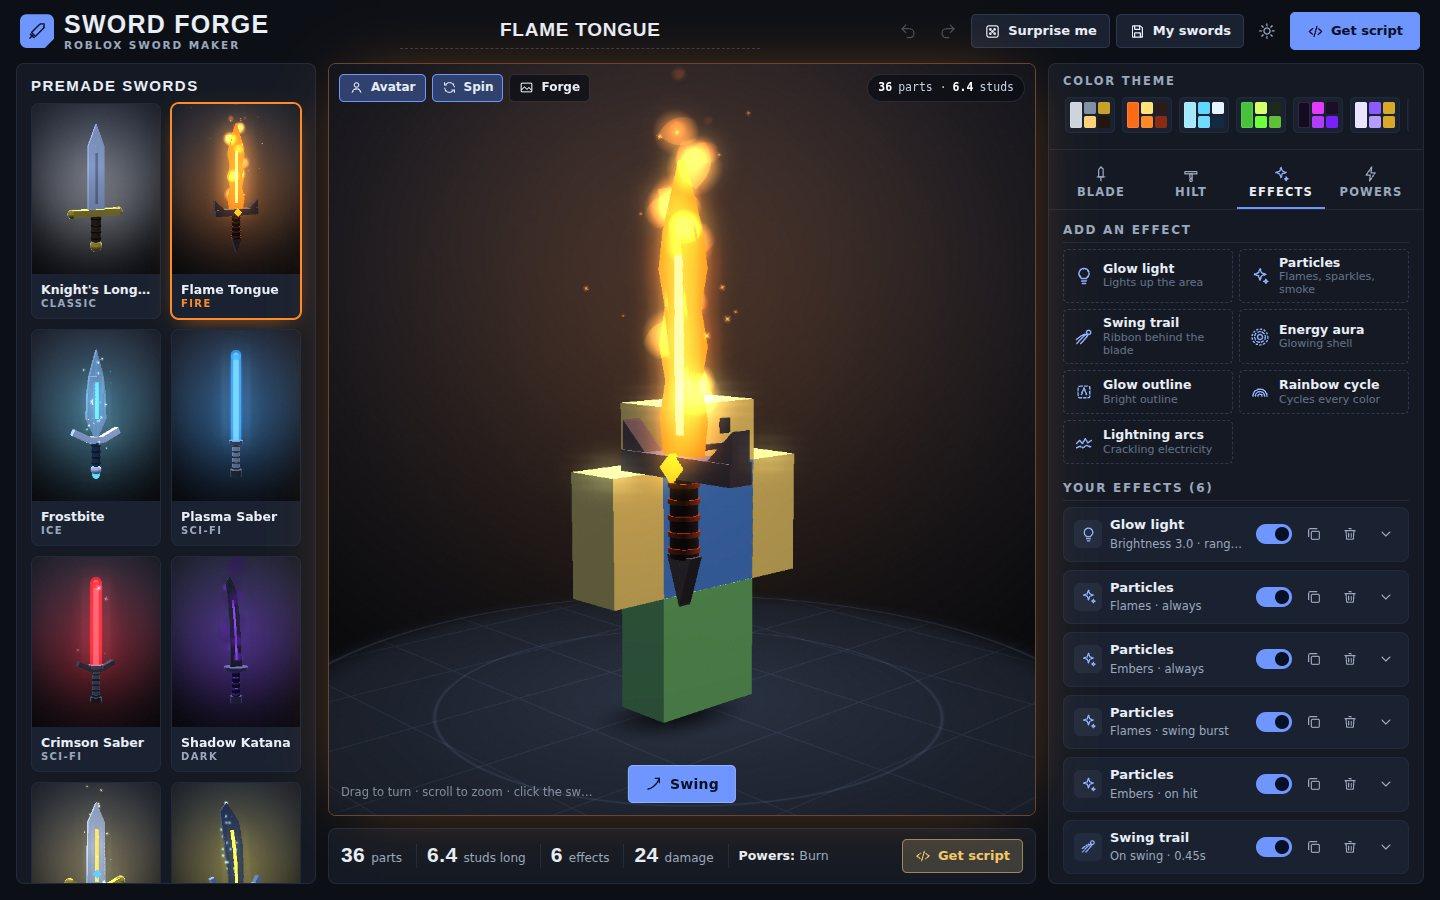
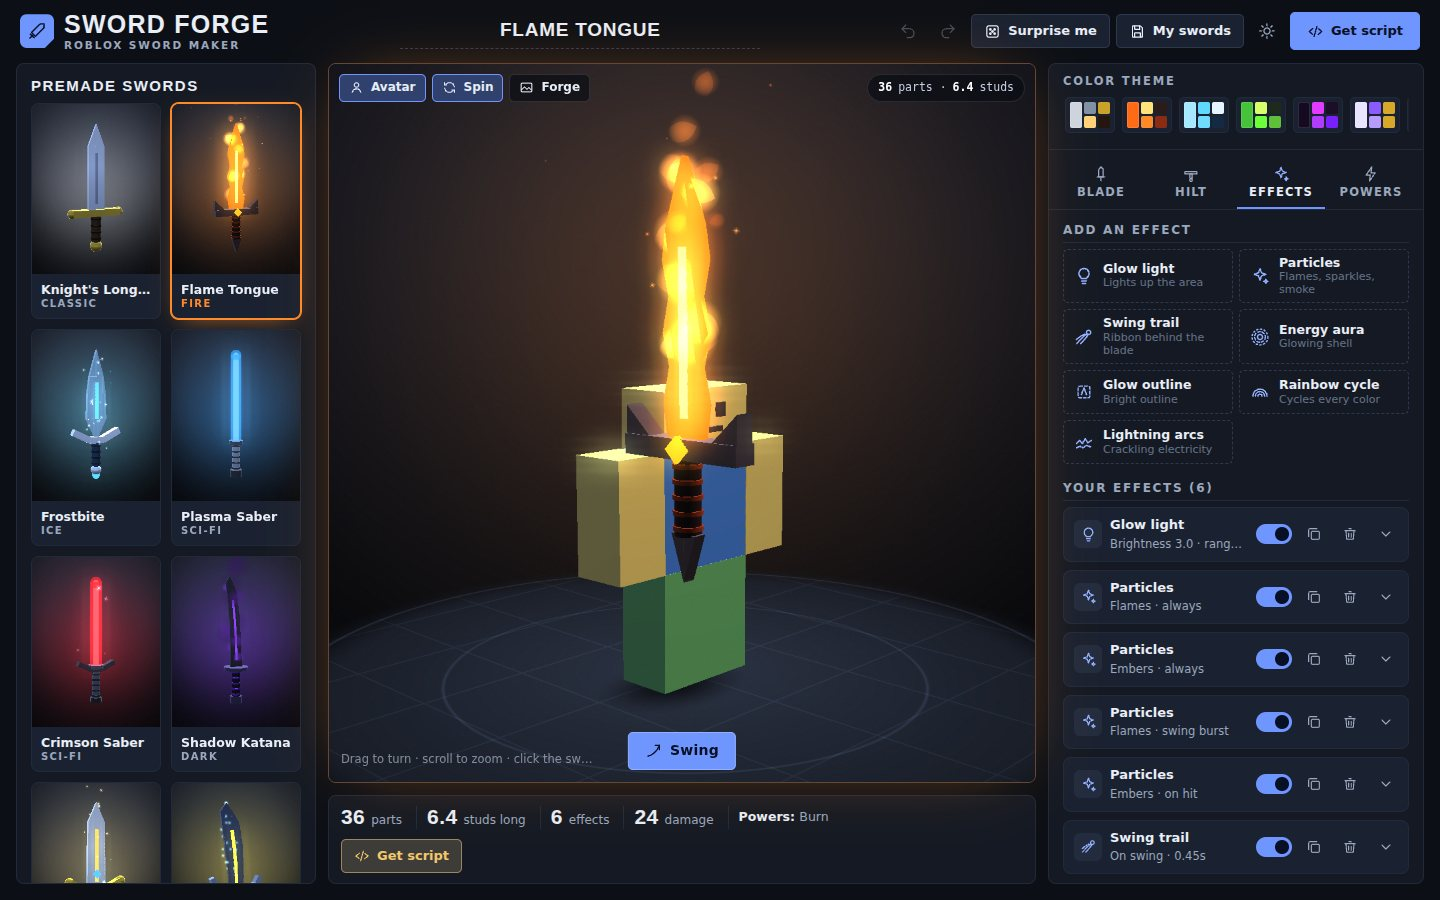
Fix stray "null" text in the header and export summary
Element.append(null) writes the literal text "null", so the header
showed "null" next to the buttons when the theme toggle was left out
(Artifact viewer), and the export dialog showed it for any sword
without powers. Added a put() helper that skips null/false the way h()
does, and used it at the three call sites.

Also let the stat bar's "Powers" readout wrap instead of collapsing to
an ellipsis next to the Get script button.

UI tests now scan for leaked null/undefined/NaN text on every tab and
dialog, and cover the Artifact viewer mode (no theme toggle, downloads
or share links). Verified they fail on the previous code.

Claude-Session: https://claude.ai/code/session_01G7tZQrtGwW8b69gdaMtnGK

Changed region(s): [[0.2188, 0.0622, 0.7188, 0.9956], [0.25, 0.6844, 0.2812, 0.7156]]

diff --git a/dist/sword-forge.html b/dist/sword-forge.html
@@ -326,7 +326,7 @@ svg.ico { display: block; flex: none; }
 .statbar .stat b { font: 800 21px/1 var(--font-display); letter-spacing: 0.02em; font-variant-numeric: tabular-nums; }
 .statbar .stat span { color: var(--muted); font-size: 12px; }
 .statbar .grow { flex: 1; }
-.statbar .powers { color: var(--muted); font-size: 12.5px; min-width: 0; overflow: hidden; text-overflow: ellipsis; white-space: nowrap; }
+.statbar .powers { flex: 1 1 170px; color: var(--muted); font-size: 12.5px; line-height: 1.3; min-width: 0; }
 .statbar .powers b { color: var(--text); font-weight: 600; }
 
 /* --------------------------------------------------------------------- inspector */
@@ -5096,6 +5096,8 @@ void main() {
     }
     return el;
   }
+  // Element.append() turns null / false into the visible text "null" / "false"; this skips them the way h() does.
+  const put = (el, ...kids) => { kids.forEach((c) => { if (c != null && c !== false) el.append(c); }); return el; };
   const $ = (s, r) => (r || document).querySelector(s);
   const ico = (name, size) => SF.icon(name, size);
   const iconEl = (name, size) => { const s = h('span', { html: ico(name, size), style: { display: 'inline-flex' } }); return s.firstChild; };
@@ -5656,7 +5658,7 @@ void main() {
       card.classList.toggle('off', !l.on);
       sub.textContent = layerSummary(l);
     });
-    card.append(head, body, spec.blurb ? h('div', { hidden: true }, spec.blurb) : null);
+    put(card, head, body, spec.blurb ? h('div', { hidden: true }, spec.blurb) : null);
     return card;
   }
 
@@ -5799,7 +5801,7 @@ void main() {
     const top = $('#top-actions');
     undoBtn = h('button', { type: 'button', class: 'btn icon ghost', title: 'Undo (Ctrl+Z)', 'aria-label': 'Undo', html: ico('undo'), onclick: undo });
     redoBtn = h('button', { type: 'button', class: 'btn icon ghost', title: 'Redo (Ctrl+Shift+Z)', 'aria-label': 'Redo', html: ico('redo'), onclick: redo });
-    top.append(
+    put(top,
       undoBtn, redoBtn,
       h('button', { type: 'button', class: 'btn hide-s', onclick: randomize, title: 'Roll a brand new random sword (R)' }, iconEl('dice', 17), 'Surprise me'),
       h('button', { type: 'button', class: 'btn hide-s', onclick: openLibrary, title: 'Save, load and share swords' }, iconEl('save', 17), 'My swords'),
@@ -5955,7 +5957,7 @@ void main() {
     if (!box) return;
     const d = SF.describe(state.cfg);
     box.innerHTML = '';
-    box.append(
+    put(box,
       h('li', {}, h('b', {}, d.parts + ' parts'), ' welded into one Tool, ', d.length.toFixed(1), ' studs long'),
       h('li', {}, h('b', {}, d.effects + ' effect' + (d.effects === 1 ? '' : 's')), ' (glow, particles, trails...)'),
       h('li', {}, h('b', {}, state.cfg.combat.damage + ' damage'), ' per hit, ', state.cfg.combat.cooldown + 's cooldown'),

diff --git a/js/app.js b/js/app.js
@@ -32,6 +32,8 @@
     }
     return el;
   }
+  // Element.append() turns null / false into the visible text "null" / "false"; this skips them the way h() does.
+  const put = (el, ...kids) => { kids.forEach((c) => { if (c != null && c !== false) el.append(c); }); return el; };
   const $ = (s, r) => (r || document).querySelector(s);
   const ico = (name, size) => SF.icon(name, size);
   const iconEl = (name, size) => { const s = h('span', { html: ico(name, size), style: { display: 'inline-flex' } }); return s.firstChild; };
@@ -592,7 +594,7 @@
       card.classList.toggle('off', !l.on);
       sub.textContent = layerSummary(l);
     });
-    card.append(head, body, spec.blurb ? h('div', { hidden: true }, spec.blurb) : null);
+    put(card, head, body, spec.blurb ? h('div', { hidden: true }, spec.blurb) : null);
     return card;
   }
 
@@ -735,7 +737,7 @@
     const top = $('#top-actions');
     undoBtn = h('button', { type: 'button', class: 'btn icon ghost', title: 'Undo (Ctrl+Z)', 'aria-label': 'Undo', html: ico('undo'), onclick: undo });
     redoBtn = h('button', { type: 'button', class: 'btn icon ghost', title: 'Redo (Ctrl+Shift+Z)', 'aria-label': 'Redo', html: ico('redo'), onclick: redo });
-    top.append(
+    put(top,
       undoBtn, redoBtn,
       h('button', { type: 'button', class: 'btn hide-s', onclick: randomize, title: 'Roll a brand new random sword (R)' }, iconEl('dice', 17), 'Surprise me'),
       h('button', { type: 'button', class: 'btn hide-s', onclick: openLibrary, title: 'Save, load and share swords' }, iconEl('save', 17), 'My swords'),
@@ -891,7 +893,7 @@
     if (!box) return;
     const d = SF.describe(state.cfg);
     box.innerHTML = '';
-    box.append(
+    put(box,
       h('li', {}, h('b', {}, d.parts + ' parts'), ' welded into one Tool, ', d.length.toFixed(1), ' studs long'),
       h('li', {}, h('b', {}, d.effects + ' effect' + (d.effects === 1 ? '' : 's')), ' (glow, particles, trails...)'),
       h('li', {}, h('b', {}, state.cfg.combat.damage + ' damage'), ' per hit, ', state.cfg.combat.cooldown + 's cooldown'),

diff --git a/css/style.css b/css/style.css
@@ -317,7 +317,7 @@ svg.ico { display: block; flex: none; }
 .statbar .stat b { font: 800 21px/1 var(--font-display); letter-spacing: 0.02em; font-variant-numeric: tabular-nums; }
 .statbar .stat span { color: var(--muted); font-size: 12px; }
 .statbar .grow { flex: 1; }
-.statbar .powers { color: var(--muted); font-size: 12.5px; min-width: 0; overflow: hidden; text-overflow: ellipsis; white-space: nowrap; }
+.statbar .powers { flex: 1 1 170px; color: var(--muted); font-size: 12.5px; line-height: 1.3; min-width: 0; }
 .statbar .powers b { color: var(--text); font-weight: 600; }
 
 /* --------------------------------------------------------------------- inspector */
